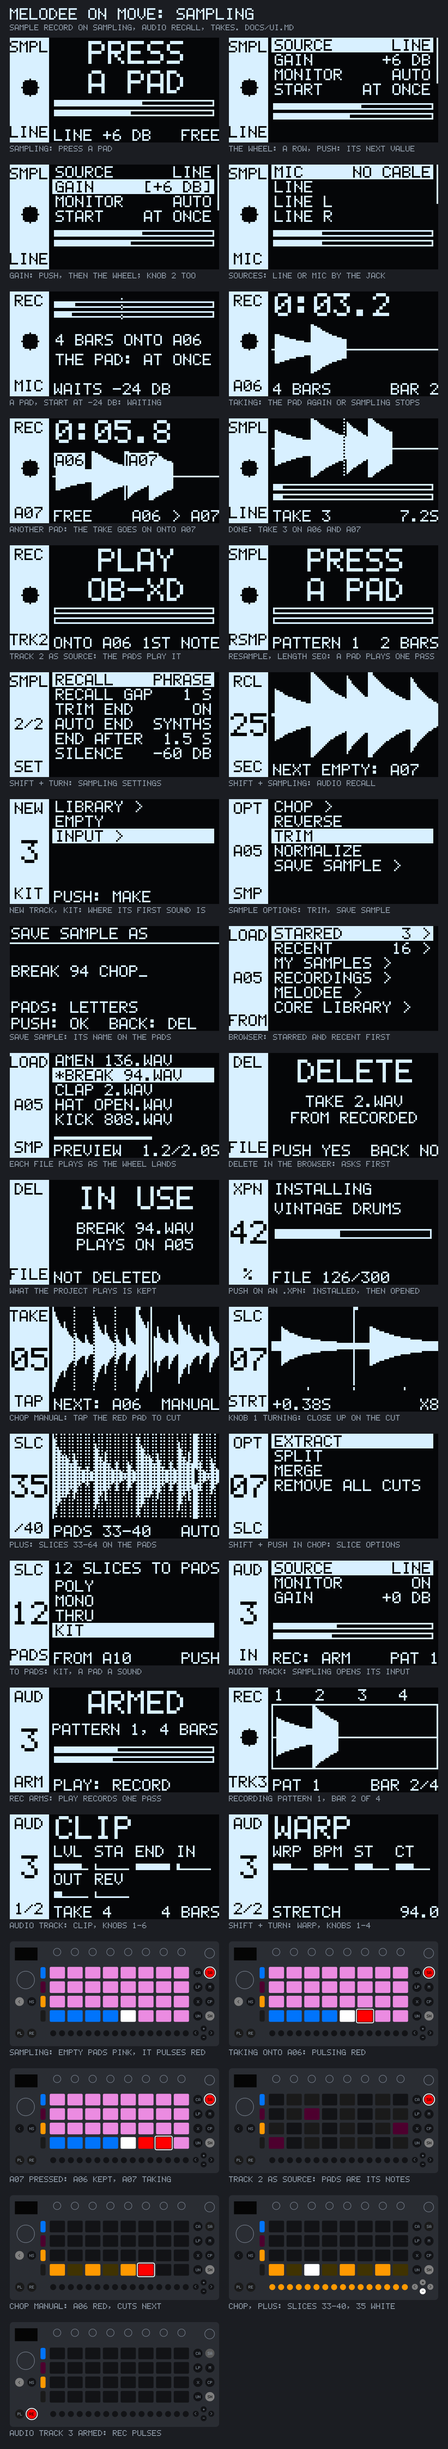
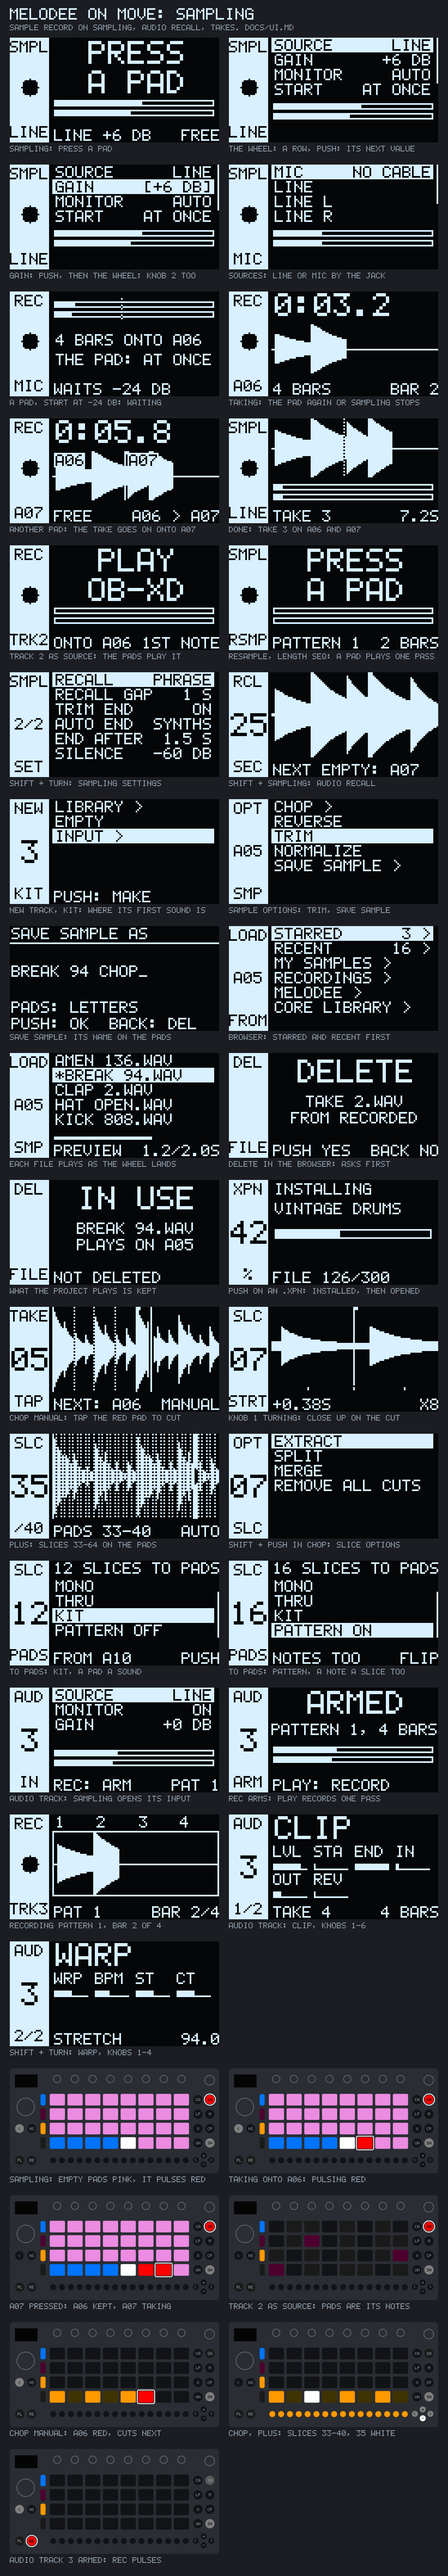
fix(move): To Pads PATTERN's detail fits beside FLIP; the mockup sheet and a ZONES snapshot

diff --git a/tests/instruments_tests.cpp b/tests/instruments_tests.cpp
@@ -17,6 +17,7 @@
 #include "move/controls.h"
 #include "move/app.h"
 #include "move/audio.h"
+#include "move/display.h"
 #include "move/tools.h"
 #include <chrono>
 #include <thread>
@@ -723,6 +724,22 @@ void test_screens() {
 
 } // namespace
 
+// The screen as the Move shows it, into build/instruments-screens/NAME.png (four times its size), to look at.
+void snap(app::MelodeeApp& app, const std::string& name) {
+    juce::Image image(juce::Image::ARGB, move::screen_width, move::screen_height, true);
+    {
+        juce::Graphics g(image);
+        g.fillAll(juce::Colours::black);
+        g.setColour(juce::Colours::white);
+        app.draw(g);
+    }
+    fs::create_directories("build/instruments-screens");
+    auto file = juce::File::getCurrentWorkingDirectory().getChildFile(juce::String("build/instruments-screens/" + name + ".png"));
+    file.deleteFile();
+    juce::FileOutputStream output(file);
+    if (output.openedOk()) juce::PNGImageFormat().writeImageToStream(move::frame_image(move::pack(image), 4), output);
+}
+
 void test_kit_instrument() {
     // An instrument on a kit pad (Melodee's SFZ on a pad): loaded as a sample is, its files landing, a hit playing key 60
     // plus the pad's Semi (here the SFZ's second zone); the pad's TRIM page is ZONES there, a zone walked and trimmed on
@@ -783,6 +800,8 @@ void test_kit_instrument() {
         CHECK(has(melodee.status(), "kit_zone=2"));
         knob(1, 7);  // ZONE TUNE +7 cents
         knob(2, -2); // ZONE LEVEL -1 dB
+        std::this_thread::sleep_for(std::chrono::milliseconds(2500)); // the knob's big view and the message gone
+        snap(melodee, "kit-zones");
         {
             std::lock_guard<std::mutex> guard(studio.lock);
             const auto& kit = studio.project().tracks[0];

diff --git a/src/app/screens/chop.cpp b/src/app/screens/chop.cpp
@@ -614,7 +614,7 @@ public:
         ui::list(g, ui::content(11, 36),
                  {to_pads_names[0], to_pads_names[1], to_pads_names[2], to_pads_names[3], pattern ? "PATTERN ON" : "PATTERN OFF"}, how, 1);
         unsigned first = chop().first_empty();
-        ui::detail(g, how == to_pads_pattern ? (pattern ? "A NOTE A SLICE" : "PADS ONLY") : first < pad_count ? "FROM " + pad_label(first) : "NO EMPTY PADS",
+        ui::detail(g, how == to_pads_pattern ? (pattern ? "NOTES TOO" : "PADS ONLY") : first < pad_count ? "FROM " + pad_label(first) : "NO EMPTY PADS",
                    how == to_pads_pattern ? "FLIP" : "PUSH");
     }
     std::string status() const override { return " to_pads=" + std::to_string(how) + " to_pads_pattern=" + std::to_string(int(pattern)); }

diff --git a/src/ui/mockups_sampling.cpp b/src/ui/mockups_sampling.cpp
@@ -279,7 +279,7 @@ std::vector<Screen> sampling_screens() {
             rail(g, "SLC", "16", "PADS");
             move::draw_text(g, content_x + 1, 1, "16 SLICES TO PADS");
             list(g, content(11, 36), {"POLY", "MONO", "THRU", "KIT", "PATTERN ON"}, 4, 1);
-            detail(g, "A NOTE A SLICE", "FLIP");
+            detail(g, "NOTES TOO", "FLIP");
         }},
         {"audio-input", "AUDIO TRACK: SAMPLING OPENS ITS INPUT", [](juce::Graphics& g) {
             rail(g, "AUD", "3", "IN");
